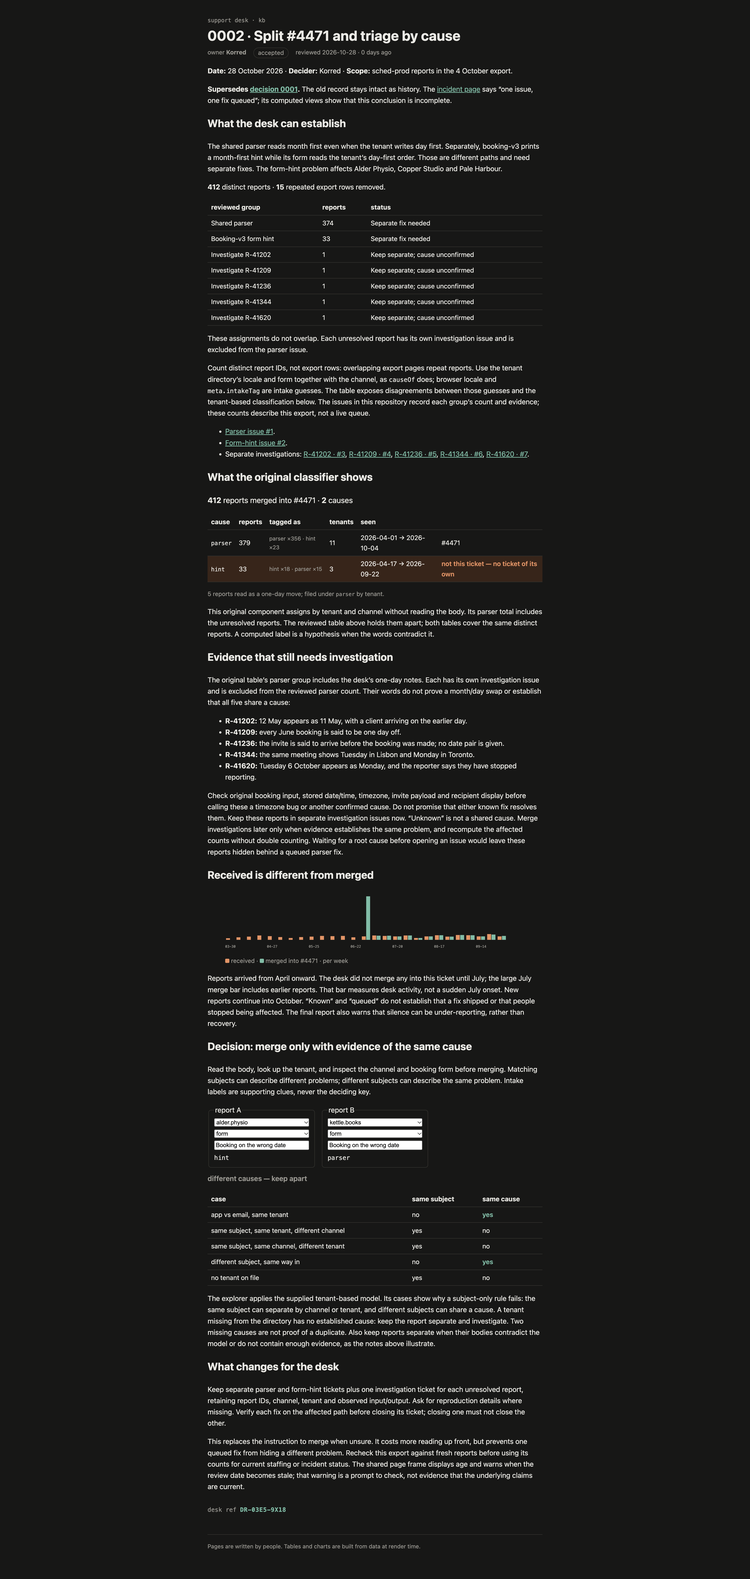
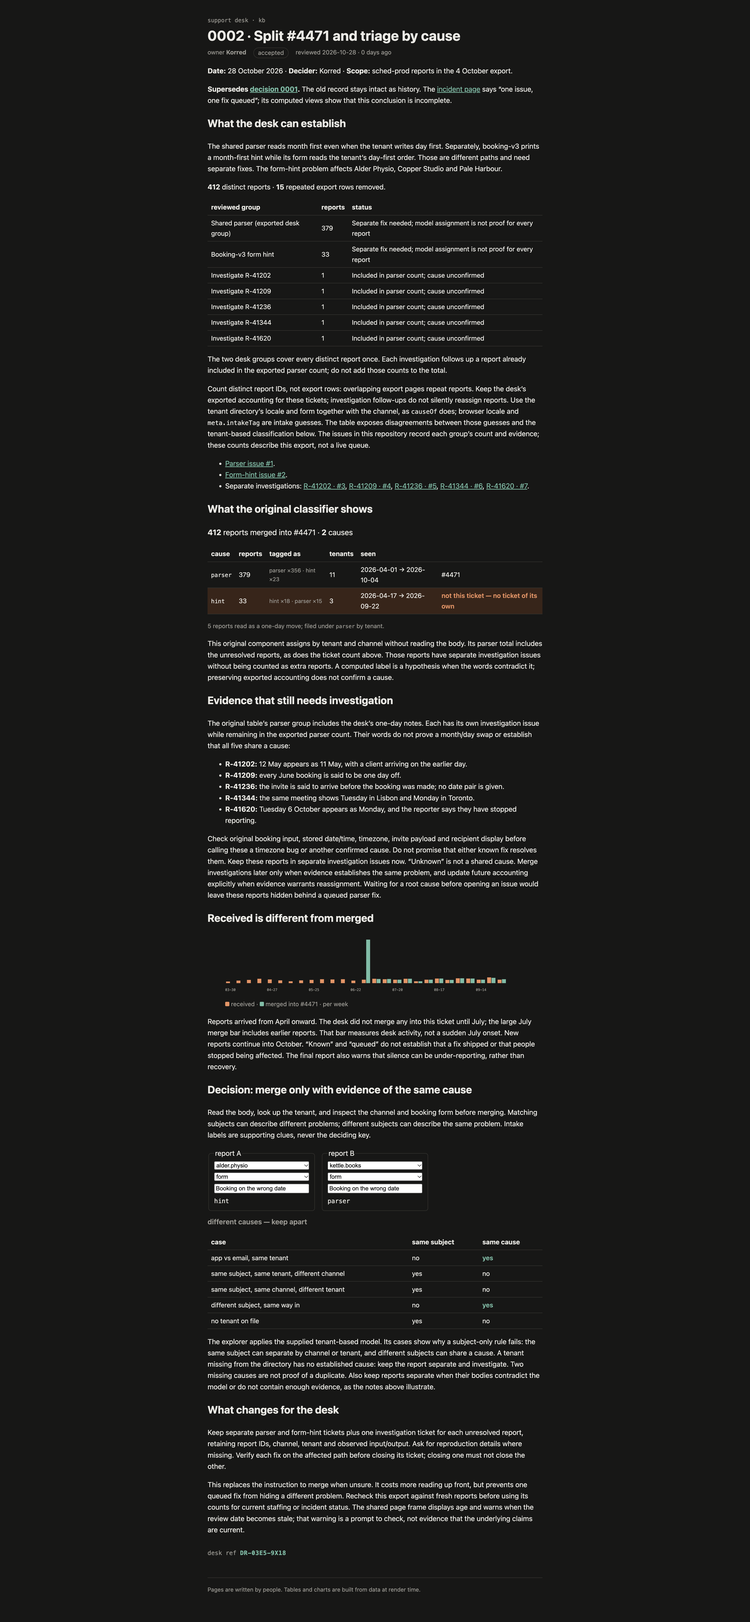
Retain exported desk counts and track investigations as follow-ups

Changed region(s): [[0.2803, 0.0311, 0.7474, 0.9647], [0.6539, 0.7469, 0.6851, 0.778], [0.5605, 0.7469, 0.5917, 0.778]]

diff --git a/S01E03/rendered/0002-triage-by-cause.html b/S01E03/rendered/0002-triage-by-cause.html
@@ -44,7 +44,41 @@ aside.svelte-17bri61 { border-left: 4px solid var(--accent); padding: 0.5rem 1re
 aside.warn.svelte-17bri61 { border-color: var(--warn); background: var(--warn-bg); }
 .svelte-17bri61 { }
 .stale.svelte-tbc1ha { color: var(--warn); font-weight: 600; }
-.svelte-tbc1ha { }</style></head><body><div id="app"><!----><div class="kb svelte-e2jw2j"><header class="svelte-e2jw2j"><a class="crumb svelte-e2jw2j" href="/kb">support desk · kb</a> <h1 class="svelte-e2jw2j">Support knowledge base</h1> <p class="meta svelte-e2jw2j"><span class="svelte-e2jw2j">owner <b class="svelte-e2jw2j">support desk</b></span> <span class="status living svelte-e2jw2j">living</span> <span class="svelte-e2jw2j">reviewed 2026-09-28 · 30 days ago</span></p></header> <!----> <main class="svelte-e2jw2j"><p>What the support desk knows, kept next to the code that knows it. One desk, every product: <code>sched-prod</code> (calendar invites for about 300k people) and the rest. When something breaks, the reports land here first.</p> <p>Start with <a href="/kb/triage/dedupe">triage</a> if you are new on the desk.</p> <h2>Pages</h2> <table class="svelte-tbc1ha"><thead class="svelte-tbc1ha"><tr class="svelte-tbc1ha"><th class="svelte-tbc1ha">page</th><th class="svelte-tbc1ha">owner</th><th class="svelte-tbc1ha">status</th><th class="svelte-tbc1ha">reviewed</th></tr></thead><tbody class="svelte-tbc1ha"><tr class="svelte-tbc1ha"><td class="svelte-tbc1ha"><a class="svelte-tbc1ha" href="/kb/decisions/0001-dedupe-by-subject">0001 · Duplicates share a subject line</a></td><td class="svelte-tbc1ha">rune</td><td class="svelte-tbc1ha">accepted</td><td class="svelte-tbc1ha stale">2024-06-11</td></tr><tr class="svelte-tbc1ha"><td class="svelte-tbc1ha"><a class="svelte-tbc1ha" href="/kb/decisions/0002-triage-by-cause">0002 · Split #4471 and triage by cause</a></td><td class="svelte-tbc1ha">Korred</td><td class="svelte-tbc1ha">accepted</td><td class="svelte-tbc1ha">2026-10-28</td></tr><tr class="svelte-tbc1ha"><td class="svelte-tbc1ha"><a class="svelte-tbc1ha" href="/kb/incidents/4471">#4471 · split date problems and unresolved reports</a></td><td class="svelte-tbc1ha">support desk</td><td class="svelte-tbc1ha">investigating</td><td class="svelte-tbc1ha">2026-10-28</td></tr><tr class="svelte-tbc1ha"><td class="svelte-tbc1ha"><a class="svelte-tbc1ha" href="/kb/triage/dedupe">Triage: duplicate reports</a></td><td class="svelte-tbc1ha">support desk</td><td class="svelte-tbc1ha">accepted</td><td class="svelte-tbc1ha">2026-10-28</td></tr></tbody></table><!----> <h2>Writing a page</h2> <p>Keep the words here and the logic in <code>src/lib</code>. A number that can be computed should be
-computed by a component, not typed into a paragraph.</p><!----></main> <footer class="svelte-e2jw2j">Pages are written by people. Tables and charts are built from data at render time.</footer></div></div>
+.svelte-tbc1ha { }</style></head><body><div id="app"><!----><div class="kb svelte-e2jw2j"><header class="svelte-e2jw2j"><a class="crumb svelte-e2jw2j" href="/kb">support desk · kb</a> <h1 class="svelte-e2jw2j">0002 · Split #4471 and triage by cause</h1> <p class="meta svelte-e2jw2j"><span class="svelte-e2jw2j">owner <b class="svelte-e2jw2j">Korred</b></span> <span class="status accepted svelte-e2jw2j">accepted</span> <span class="svelte-e2jw2j">reviewed 2026-10-28 · 0 days ago</span></p></header> <!----> <main class="svelte-e2jw2j"><p><strong>Date:</strong> 28 October 2026 · <strong>Decider:</strong> Korred · <strong>Scope:</strong> sched-prod reports in the 4 October export.</p> <p><strong>Supersedes <a href="/kb/decisions/0001-dedupe-by-subject">decision 0001</a>.</strong> The old record stays intact as history.
+The <a href="/kb/incidents/4471">incident page</a> says “one issue, one fix queued”; its computed views show that this conclusion is incomplete.</p> <h2>What the desk can establish</h2> <p>The shared parser reads month first even when the tenant writes day first. Separately, booking-v3
+prints a month-first hint while its form reads the tenant’s day-first order. Those are different
+paths and need separate fixes. The form-hint problem affects Alder Physio, Copper Studio and Pale Harbour.</p> <p><strong>412</strong> distinct reports · <strong>15</strong> repeated export rows removed.</p> <table><thead><tr><th>reviewed group</th><th>reports</th><th>status</th></tr></thead><tbody><tr><td>Shared parser (exported desk group)</td><td>379</td><td>Separate fix needed; model assignment is not proof for every report</td></tr><tr><td>Booking-v3 form hint</td><td>33</td><td>Separate fix needed; model assignment is not proof for every report</td></tr><!----><tr><td>Investigate R-41202</td><td>1</td><td>Included in parser count; cause unconfirmed</td></tr><tr><td>Investigate R-41209</td><td>1</td><td>Included in parser count; cause unconfirmed</td></tr><tr><td>Investigate R-41236</td><td>1</td><td>Included in parser count; cause unconfirmed</td></tr><tr><td>Investigate R-41344</td><td>1</td><td>Included in parser count; cause unconfirmed</td></tr><tr><td>Investigate R-41620</td><td>1</td><td>Included in parser count; cause unconfirmed</td></tr><!----></tbody></table> <p>The two desk groups cover every distinct report once. Each investigation follows up a report already included in the exported parser count; do not add those counts to the total.</p><!----> <p>Count distinct report IDs, not export rows: overlapping export pages repeat reports. Keep the
+desk’s exported accounting for these tickets; investigation follow-ups do not silently reassign reports.
+Use the tenant directory’s locale and form together with the channel, as <code>causeOf</code> does;
+browser locale and <code>meta.intakeTag</code> are intake guesses. The table exposes disagreements between
+those guesses and the tenant-based classification below. The issues in this repository record each
+group’s count and evidence; these counts describe this export, not a live queue.</p> <ul><li><a href="https://github.com/Korred/mega-dev-tasks/issues/1" rel="nofollow">Parser issue #1</a>.</li> <li><a href="https://github.com/Korred/mega-dev-tasks/issues/2" rel="nofollow">Form-hint issue #2</a>.</li> <li>Separate investigations: <a href="https://github.com/Korred/mega-dev-tasks/issues/3" rel="nofollow">R-41202 · #3</a>, <a href="https://github.com/Korred/mega-dev-tasks/issues/4" rel="nofollow">R-41209 · #4</a>, <a href="https://github.com/Korred/mega-dev-tasks/issues/5" rel="nofollow">R-41236 · #5</a>, <a href="https://github.com/Korred/mega-dev-tasks/issues/6" rel="nofollow">R-41344 · #6</a>, <a href="https://github.com/Korred/mega-dev-tasks/issues/7" rel="nofollow">R-41620 · #7</a>.</li></ul> <h2>What the original classifier shows</h2> <p class="sum svelte-12oyimm"><strong class="svelte-12oyimm">412</strong> reports merged into #4471 · <strong class="svelte-12oyimm">2</strong> causes</p> <table class="svelte-12oyimm"><thead class="svelte-12oyimm"><tr class="svelte-12oyimm"><th class="svelte-12oyimm">cause</th><th class="svelte-12oyimm">reports</th><th class="svelte-12oyimm">tagged as</th><th class="svelte-12oyimm">tenants</th><th class="svelte-12oyimm">seen</th><th class="svelte-12oyimm"></th></tr></thead><tbody class="svelte-12oyimm"><tr class="svelte-12oyimm"><td class="svelte-12oyimm"><code class="svelte-12oyimm">parser</code></td><td class="svelte-12oyimm">379</td><td class="tags svelte-12oyimm">parser ×356 · hint ×23</td><td class="svelte-12oyimm">11</td><td class="svelte-12oyimm">2026-04-01 → 2026-10-04</td><td class="svelte-12oyimm">#4471</td></tr><tr class="svelte-12oyimm wrong"><td class="svelte-12oyimm"><code class="svelte-12oyimm">hint</code></td><td class="svelte-12oyimm">33</td><td class="tags svelte-12oyimm">hint ×18 · parser ×15</td><td class="svelte-12oyimm">3</td><td class="svelte-12oyimm">2026-04-17 → 2026-09-22</td><td class="svelte-12oyimm">not this ticket — no ticket of its own</td></tr></tbody></table> <!----><p class="note svelte-12oyimm">5 reports read as a one-day move; filed under <code class="svelte-12oyimm">parser</code> by tenant.</p><!----><!----><!----> <p>This original component assigns by tenant and channel without reading the body. Its parser
+total includes the unresolved reports, as does the ticket count above. Those reports have
+separate investigation issues without being counted as extra reports. A computed label is a
+hypothesis when the words contradict it; preserving exported accounting does not confirm a cause.</p> <h2>Evidence that still needs investigation</h2> <p>The original table’s parser group includes the desk’s one-day notes. Each has its own
+investigation issue while remaining in the exported parser count. Their words do not prove
+a month/day swap or establish that all five share a cause:</p> <ul><li><strong>R-41202:</strong> 12 May appears as 11 May, with a client arriving on the earlier day.</li> <li><strong>R-41209:</strong> every June booking is said to be one day off.</li> <li><strong>R-41236:</strong> the invite is said to arrive before the booking was made; no date pair is given.</li> <li><strong>R-41344:</strong> the same meeting shows Tuesday in Lisbon and Monday in Toronto.</li> <li><strong>R-41620:</strong> Tuesday 6 October appears as Monday, and the reporter says they have stopped reporting.</li></ul> <p>Check original booking input, stored date/time, timezone, invite payload and recipient display
+before calling these a timezone bug or another confirmed cause. Do not promise that either known
+fix resolves them. Keep these reports in separate investigation issues now. “Unknown” is not
+a shared cause. Merge investigations later only when evidence establishes the same problem,
+and update future accounting explicitly when evidence warrants reassignment. Waiting for a root cause before
+opening an issue would leave these reports hidden behind a queued parser fix.</p> <h2>Received is different from merged</h2> <figure class="svelte-18a6qal"><svg role="img" class="svelte-18a6qal" viewBox="0 0 648 140" aria-label="reports received and merged into #4471, per week"><rect class="in svelte-18a6qal" width="9" x="2" y="106.29629629629629" height="3.7037037037037033"></rect><rect class="merged svelte-18a6qal" width="9" x="12" y="110" height="0"></rect><text y="128" class="svelte-18a6qal" x="12">03-30</text><!----><rect class="in svelte-18a6qal" width="9" x="26" y="104.17989417989418" height="5.82010582010582"></rect><rect class="merged svelte-18a6qal" width="9" x="36" y="110" height="0"></rect><!----><rect class="in svelte-18a6qal" width="9" x="50" y="102.5925925925926" height="7.4074074074074066"></rect><rect class="merged svelte-18a6qal" width="9" x="60" y="110" height="0"></rect><!----><rect class="in svelte-18a6qal" width="9" x="74" y="99.94708994708995" height="10.052910052910052"></rect><rect class="merged svelte-18a6qal" width="9" x="84" y="110" height="0"></rect><!----><rect class="in svelte-18a6qal" width="9" x="98" y="101.53439153439153" height="8.465608465608465"></rect><rect class="merged svelte-18a6qal" width="9" x="108" y="110" height="0"></rect><text y="128" class="svelte-18a6qal" x="108">04-27</text><!----><rect class="in svelte-18a6qal" width="9" x="122" y="103.65079365079364" height="6.349206349206349"></rect><rect class="merged svelte-18a6qal" width="9" x="132" y="110" height="0"></rect><!----><rect class="in svelte-18a6qal" width="9" x="146" y="105.76719576719577" height="4.232804232804233"></rect><rect class="merged svelte-18a6qal" width="9" x="156" y="110" height="0"></rect><!----><rect class="in svelte-18a6qal" width="9" x="170" y="103.65079365079364" height="6.349206349206349"></rect><rect class="merged svelte-18a6qal" width="9" x="180" y="110" height="0"></rect><!----><rect class="in svelte-18a6qal" width="9" x="194" y="102.5925925925926" height="7.4074074074074066"></rect><rect class="merged svelte-18a6qal" width="9" x="204" y="110" height="0"></rect><text y="128" class="svelte-18a6qal" x="204">05-25</text><!----><rect class="in svelte-18a6qal" width="9" x="218" y="101.00529100529101" height="8.994708994708994"></rect><rect class="merged svelte-18a6qal" width="9" x="228" y="110" height="0"></rect><!----><rect class="in svelte-18a6qal" width="9" x="242" y="101.53439153439153" height="8.465608465608465"></rect><rect class="merged svelte-18a6qal" width="9" x="252" y="110" height="0"></rect><!----><rect class="in svelte-18a6qal" width="9" x="266" y="101.00529100529101" height="8.994708994708994"></rect><rect class="merged svelte-18a6qal" width="9" x="276" y="110" height="0"></rect><!----><rect class="in svelte-18a6qal" width="9" x="290" y="104.17989417989418" height="5.82010582010582"></rect><rect class="merged svelte-18a6qal" width="9" x="300" y="110" height="0"></rect><text y="128" class="svelte-18a6qal" x="300">06-22</text><!----><rect class="in svelte-18a6qal" width="9" x="314" y="102.06349206349206" height="7.936507936507936"></rect><rect class="merged svelte-18a6qal" width="9" x="324" y="10" height="100"></rect><!----><rect class="in svelte-18a6qal" width="9" x="338" y="99.94708994708995" height="10.052910052910052"></rect><rect class="merged svelte-18a6qal" width="9" x="348" y="100.47619047619048" height="9.523809523809524"></rect><!----><rect class="in svelte-18a6qal" width="9" x="362" y="101.00529100529101" height="8.994708994708994"></rect><rect class="merged svelte-18a6qal" width="9" x="372" y="100.47619047619048" height="9.523809523809524"></rect><!----><rect class="in svelte-18a6qal" width="9" x="386" y="102.06349206349206" height="7.936507936507936"></rect><rect class="merged svelte-18a6qal" width="9" x="396" y="102.06349206349206" height="7.936507936507936"></rect><text y="128" class="svelte-18a6qal" x="396">07-20</text><!----><rect class="in svelte-18a6qal" width="9" x="410" y="99.94708994708995" height="10.052910052910052"></rect><rect class="merged svelte-18a6qal" width="9" x="420" y="99.94708994708995" height="10.052910052910052"></rect><!----><rect class="in svelte-18a6qal" width="9" x="434" y="105.76719576719577" height="4.232804232804233"></rect><rect class="merged svelte-18a6qal" width="9" x="444" y="105.76719576719577" height="4.232804232804233"></rect><!----><rect class="in svelte-18a6qal" width="9" x="458" y="102.06349206349206" height="7.936507936507936"></rect><rect class="merged svelte-18a6qal" width="9" x="468" y="102.06349206349206" height="7.936507936507936"></rect><!----><rect class="in svelte-18a6qal" width="9" x="482" y="99.41798941798942" height="10.582010582010582"></rect><rect class="merged svelte-18a6qal" width="9" x="492" y="99.41798941798942" height="10.582010582010582"></rect><text y="128" class="svelte-18a6qal" x="492">08-17</text><!----><rect class="in svelte-18a6qal" width="9" x="506" y="102.5925925925926" height="7.4074074074074066"></rect><rect class="merged svelte-18a6qal" width="9" x="516" y="102.5925925925926" height="7.4074074074074066"></rect><!----><rect class="in svelte-18a6qal" width="9" x="530" y="98.88888888888889" height="11.11111111111111"></rect><rect class="merged svelte-18a6qal" width="9" x="540" y="98.88888888888889" height="11.11111111111111"></rect><!----><rect class="in svelte-18a6qal" width="9" x="554" y="99.41798941798942" height="10.582010582010582"></rect><rect class="merged svelte-18a6qal" width="9" x="564" y="99.41798941798942" height="10.582010582010582"></rect><!----><rect class="in svelte-18a6qal" width="9" x="578" y="102.06349206349206" height="7.936507936507936"></rect><rect class="merged svelte-18a6qal" width="9" x="588" y="102.06349206349206" height="7.936507936507936"></rect><text y="128" class="svelte-18a6qal" x="588">09-14</text><!----><rect class="in svelte-18a6qal" width="9" x="602" y="96.77248677248677" height="13.227513227513226"></rect><rect class="merged svelte-18a6qal" width="9" x="612" y="97.83068783068784" height="12.16931216931217"></rect><!----><rect class="in svelte-18a6qal" width="9" x="626" y="102.06349206349206" height="7.936507936507936"></rect><rect class="merged svelte-18a6qal" width="9" x="636" y="101.00529100529101" height="8.994708994708994"></rect><!----></svg> <figcaption class="svelte-18a6qal"><span class="key in svelte-18a6qal"></span> received · <span class="key merged svelte-18a6qal"></span> merged into #4471 · per week</figcaption></figure><!----> <p>Reports arrived from April onward. The desk did not merge any into this ticket until July;
+the large July merge bar includes earlier reports. That bar measures desk activity, not a sudden
+July onset. New reports continue into October. “Known” and “queued” do not establish that a fix
+shipped or that people stopped being affected. The final report also warns that silence can be
+under-reporting, rather than recovery.</p> <h2>Decision: merge only with evidence of the same cause</h2> <p>Read the body, look up the tenant, and inspect the channel and booking form before merging.
+Matching subjects can describe different problems; different subjects can describe the same
+problem. Intake labels are supporting clues, never the deciding key.</p> <div class="try svelte-gq0h2h"><fieldset class="svelte-gq0h2h"><legend class="svelte-gq0h2h">report A</legend> <select aria-label="tenant" class="svelte-gq0h2h" disabled="" title="Frozen render; use the built app for the interactive explorer"><option class="svelte-gq0h2h" selected="">alder.physio</option><option class="svelte-gq0h2h">copper.studio</option><option class="svelte-gq0h2h">harbour.dental</option><option class="svelte-gq0h2h">kettle.books</option><option class="svelte-gq0h2h">lantern.row</option><option class="svelte-gq0h2h">long.table</option><option class="svelte-gq0h2h">morrow.tax</option><option class="svelte-gq0h2h">nine.lanterns</option><option class="svelte-gq0h2h">pale.harbour</option><option class="svelte-gq0h2h">ridge.clinic</option><option class="svelte-gq0h2h">stone.and.sons</option></select> <select aria-label="channel" class="svelte-gq0h2h" disabled="" title="Frozen render; use the built app for the interactive explorer"><option class="svelte-gq0h2h">app</option><option class="svelte-gq0h2h">email</option><option class="svelte-gq0h2h" selected="">form</option></select> <input aria-label="subject" class="svelte-gq0h2h" value="Booking on the wrong date" disabled="" title="Frozen render; use the built app for the interactive explorer"> <code class="svelte-gq0h2h">hint</code></fieldset><fieldset class="svelte-gq0h2h"><legend class="svelte-gq0h2h">report B</legend> <select aria-label="tenant" class="svelte-gq0h2h" disabled="" title="Frozen render; use the built app for the interactive explorer"><option class="svelte-gq0h2h">alder.physio</option><option class="svelte-gq0h2h">copper.studio</option><option class="svelte-gq0h2h">harbour.dental</option><option class="svelte-gq0h2h" selected="">kettle.books</option><option class="svelte-gq0h2h">lantern.row</option><option class="svelte-gq0h2h">long.table</option><option class="svelte-gq0h2h">morrow.tax</option><option class="svelte-gq0h2h">nine.lanterns</option><option class="svelte-gq0h2h">pale.harbour</option><option class="svelte-gq0h2h">ridge.clinic</option><option class="svelte-gq0h2h">stone.and.sons</option></select> <select aria-label="channel" class="svelte-gq0h2h" disabled="" title="Frozen render; use the built app for the interactive explorer"><option class="svelte-gq0h2h">app</option><option class="svelte-gq0h2h">email</option><option class="svelte-gq0h2h" selected="">form</option></select> <input aria-label="subject" class="svelte-gq0h2h" value="Booking on the wrong date" disabled="" title="Frozen render; use the built app for the interactive explorer"> <code class="svelte-gq0h2h">parser</code></fieldset><!----> <p class="verdict svelte-gq0h2h">different causes — keep apart</p></div> <table class="svelte-gq0h2h"><thead class="svelte-gq0h2h"><tr class="svelte-gq0h2h"><th class="svelte-gq0h2h">case</th><th class="svelte-gq0h2h">same subject</th><th class="svelte-gq0h2h">same cause</th></tr></thead><tbody class="svelte-gq0h2h"><tr class="svelte-gq0h2h"><td class="svelte-gq0h2h">app vs email, same tenant</td><td class="svelte-gq0h2h">no</td><td class="svelte-gq0h2h dup">yes</td></tr><tr class="svelte-gq0h2h"><td class="svelte-gq0h2h">same subject, same tenant, different channel</td><td class="svelte-gq0h2h">yes</td><td class="svelte-gq0h2h">no</td></tr><tr class="svelte-gq0h2h"><td class="svelte-gq0h2h">same subject, same channel, different tenant</td><td class="svelte-gq0h2h">yes</td><td class="svelte-gq0h2h">no</td></tr><tr class="svelte-gq0h2h"><td class="svelte-gq0h2h">different subject, same way in</td><td class="svelte-gq0h2h">no</td><td class="svelte-gq0h2h dup">yes</td></tr><tr class="svelte-gq0h2h"><td class="svelte-gq0h2h">no tenant on file</td><td class="svelte-gq0h2h">yes</td><td class="svelte-gq0h2h">no</td></tr></tbody></table><!----> <p>The explorer applies the supplied tenant-based model. Its cases show why a subject-only rule
+fails: the same subject can separate by channel or tenant, and different subjects can share a cause.
+A tenant missing from the directory has no established cause: keep the report separate and
+investigate. Two missing causes are not proof of a duplicate. Also keep reports separate when
+their bodies contradict the model or do not contain enough evidence, as the notes above illustrate.</p> <h2>What changes for the desk</h2> <p>Keep separate parser and form-hint tickets plus one investigation ticket for each unresolved
+report, retaining report IDs, channel, tenant and
+observed input/output. Ask for reproduction details where missing. Verify each fix on the affected
+path before closing its ticket; closing one must not close the other.</p> <p>This replaces the instruction to merge when unsure. It costs more reading up front, but prevents
+one queued fix from hiding a different problem. Recheck this export against fresh reports before
+using its counts for current staffing or incident status. The shared page frame displays age and
+warns when the review date becomes stale; that warning is a prompt to check, not evidence that
+the underlying claims are current.</p> <!----><p class="stamp svelte-1280m42">desk ref <b class="svelte-1280m42">DR-03E5-9X18</b></p><!----><!----></main> <footer class="svelte-e2jw2j">Pages are written by people. Tables and charts are built from data at render time.</footer></div></div>
 
 </body></html>

diff --git a/S01E03/support-kb/src/lib/kb/ReviewedReports.svelte b/S01E03/support-kb/src/lib/kb/ReviewedReports.svelte
@@ -13,12 +13,12 @@
   <thead><tr><th>reviewed group</th><th>reports</th><th>status</th></tr></thead>
   <tbody>
     {#each reviewed.groups as group (group.cause)}
-      <tr><td>{group.cause === 'parser' ? 'Shared parser' : 'Booking-v3 form hint'}</td><td>{group.reports.length}</td><td>Separate fix needed</td></tr>
+      <tr><td>{group.cause === 'parser' ? 'Shared parser (exported desk group)' : 'Booking-v3 form hint'}</td><td>{group.reports.length}</td><td>Separate fix needed; model assignment is not proof for every report</td></tr>
     {/each}
     {#each reviewed.unresolved as report (report.id)}
-      <tr><td>Investigate {report.id}</td><td>1</td><td>Keep separate; cause unconfirmed</td></tr>
+      <tr><td>Investigate {report.id}</td><td>1</td><td>Included in parser count; cause unconfirmed</td></tr>
     {/each}
   </tbody>
 </table>
 
-<p>These assignments do not overlap. Each unresolved report has its own investigation issue and is excluded from the parser issue.</p>
+<p>The two desk groups cover every distinct report once. Each investigation follows up a report already included in the exported parser count; do not add those counts to the total.</p>

diff --git a/S01E03/support-kb/src/lib/kb/review.ts b/S01E03/support-kb/src/lib/kb/review.ts
@@ -1,13 +1,13 @@
 import { groupByCause, uniqueById, type Report, type Tenant } from './causes.ts';
 
-// Desk review can withhold a model assignment when the report's wording contradicts it.
-// These IDs identify evidence to investigate; they do not establish a shared third cause.
+// Keep the exported desk accounting; flag contradictory evidence without silently reassigning it.
+// Investigation IDs identify follow-ups inside that accounting, not additional reports.
 export function reviewReports(rows: Report[], tenantOf: (r: Report) => Tenant | undefined, unresolvedIds: readonly string[]) {
   const reports = uniqueById(rows).filter(r => r.mergedInto === 4471);
   const held = new Set(unresolvedIds);
   return {
     reports,
-    groups: groupByCause(reports.filter(r => !held.has(r.id)), tenantOf),
+    groups: groupByCause(reports, tenantOf),
     unresolved: reports.filter(r => held.has(r.id)),
   };
 }

diff --git a/S01E03/README.md b/S01E03/README.md
@@ -4,18 +4,24 @@ Split the support desk's #4471 by evidence, including separate investigations wh
 
 | Issue | Assignment | Distinct reports |
 | --- | --- | ---: |
-| [#1](https://github.com/Korred/mega-dev-tasks/issues/1) | Shared month-first parser | 374 |
+| [#1](https://github.com/Korred/mega-dev-tasks/issues/1) | Shared month-first parser, exported desk count | 379 |
 | [#2](https://github.com/Korred/mega-dev-tasks/issues/2) | Booking-v3 form hint | 33 |
+| Total | Exported primary groups | 412 |
+
+Separate investigations below follow up reports **already included in the parser count**. Do not
+add their counts to the primary total; their cause remains unconfirmed.
+
+| Issue | Follow-up | Distinct reports investigated |
+| --- | --- | ---: |
 | [#3](https://github.com/Korred/mega-dev-tasks/issues/3) | R-41202: invite/calendar one-day disagreement | 1 |
 | [#4](https://github.com/Korred/mega-dev-tasks/issues/4) | R-41209: June-only one-day shifts | 1 |
 | [#5](https://github.com/Korred/mega-dev-tasks/issues/5) | R-41236: invite reportedly arrives before booking | 1 |
 | [#6](https://github.com/Korred/mega-dev-tasks/issues/6) | R-41344: recipients in different cities see different days | 1 |
 | [#7](https://github.com/Korred/mega-dev-tasks/issues/7) | R-41620: Tuesday shows as Monday | 1 |
-| Total | Every distinct report assigned once | 412 |
 
 The export contains 427 rows; 15 repeat report IDs. The original classifier returns 379 parser
-and 33 hint reports. Five bodies do not establish the classifier's parser assignment. They are
-held apart for investigation, leaving 374 in the parser issue. These investigations are separate
+and 33 hint reports. Five bodies do not establish the classifier's parser assignment. They have
+separate investigations while remaining included in the exported parser count. These investigations are separate
 because uncertainty alone does not establish a common problem. They can be merged if later
 evidence supports a shared cause. Counts describe the 4 October export, not a live support queue.
 
@@ -25,7 +31,7 @@ evidence supports a shared cause. Counts describe the 4 October export, not a li
 - [Rendered page screenshot](rendered/0002-triage-by-cause.png): the complete page, captured in Edge.
 - [Standalone rendered HTML](rendered/0002-triage-by-cause.html): download and open in a browser. This is a frozen snapshot with inline styles; explorer controls are disabled. Use the app below for interaction.
 - [Rendered text](rendered/0002-triage-by-cause.txt): accessible, searchable text extracted from that browser render.
-- [Complete report assignments](report-assignments.json): report IDs and count for every issue.
+- [Complete report assignments](report-assignments.json): primary groups plus overlapping investigation follow-ups, with report IDs and count for every issue.
 - [Issue body copies](issues/).
 - [Interactive kb source](support-kb/): run the app below to use its explorer and navigate the kb.
 
@@ -52,7 +58,7 @@ npm run dev
 Open the local URL printed by Vite. The default page is the new decision; `/kb` opens the index.
 To view the production build after `npm run build`, run `npm exec vite preview -- --host 127.0.0.1` in the same directory.
 
-The runnable check verifies unique IDs, the original classification, the reviewed partition,
+The runnable check verifies unique IDs, the exported classification, the primary partition and investigation overlap,
 the complete assignment manifest, intake-tag disagreements, missing-tenant handling, dedupe
 examples, the receipt/merge timeline distinction and the page's signature-derived reference.
 The browser check also verified that changing a tenant changes the explorer verdict, while

diff --git a/S01E03/issues/01-parser.md b/S01E03/issues/01-parser.md
@@ -1,4 +1,4 @@
-**Reports covered: 374 distinct reports** from #4471 in the 4 October 2026 export.
+**Reports covered: 379 distinct reports**, as counted by the desk's exported view of #4471 on 4 October 2026.
 
 The shared parser reads month first for tenants whose locale uses day-first dates. This differs from the booking-v3 hint problem: the parser interprets input in the wrong order, whereas the hint prompts people to type an order the form does not expect.
 
@@ -6,7 +6,9 @@ Evidence: R-41200 (Harbour Dental, app) says a 7 April reminder went out on 4 Ju
 
 Reproduction to verify against the product: for a day-first tenant, submit `07/04/2026` through the shared-parser path and compare stored booking, invite and displayed date. Expected: 7 April. Reported failure: 4 July. The product itself is not included in this export, so this is a reproduction request, not a claim that a live test was run.
 
-The count deduplicates overlapping export rows by report ID, selects reports merged into #4471, and applies the tenant-based classifier. It excludes five reports whose wording does not establish this cause; each has its own investigation issue. The remaining parser group has 351 intake tags of `parser` and 23 of `hint`; intake tags do not decide the assignment.
+The count deduplicates overlapping export rows by report ID, selects reports merged into #4471, and applies the desk's exported tenant-based classifier. This group has 356 intake tags of `parser` and 23 of `hint`; intake tags do not decide the assignment.
+
+Five reports remain included in this exported count even though their wording does not establish this cause: R-41202, R-41209, R-41236, R-41344 and R-41620. Each has its own investigation issue (#3–#7). Those are follow-ups within the 379, not five extra reports or confirmed parser failures. Keep the exported accounting explicit rather than silently changing its group count; amend future assignments if evidence establishes another cause.
 
 Seen 1 April–4 October 2026 across 11 tenants. Verify the shared parser uses the tenant's intended date order, with regression checks on app/email and booking-v2 paths and confirmation that the booking-v3 form-hint fix remains separate. Do not close the unresolved investigations merely because this fix ships.
 

diff --git a/S01E03/issues/05-R-41236.md b/S01E03/issues/05-R-41236.md
@@ -4,7 +4,7 @@ Nine Lanterns, app, received 20 April 2026. The report says: “The invite arriv
 
 Expected: the invite corresponds to the booking that generated it and its event history is explainable. Observed: the reporter says delivery preceded booking creation. No actual timestamps or date pair are supplied. This does not establish even a one-day shift, much less a month/day reversal.
 
-The supplied classifier assigns `parser` from tenant locale (`pl-PL`) and channel, while the desk puts this ID in its one-day notes. Those labels do not establish what happened. Hold this report apart from both known fixes and the other unresolved investigations.
+The supplied classifier assigns `parser` from tenant locale (`pl-PL`) and channel, while the desk puts this ID in its one-day notes. Those labels do not establish what happened. Keep this investigation apart from both known fixes and the other unresolved investigations, while retaining its report in the desk's exported parser count. It is a follow-up to a report already counted, not an extra report.
 
 Request booking/event IDs, booking creation and update audit records, send/enqueue/delivery times, raw email headers, timezone/clock settings, and whether the invite belonged to an earlier booking or resend. Correlate the event history before naming a cause. A clock discrepancy, earlier booking or scheduling fault is a hypothesis, not a confirmed result.
 

diff --git a/S01E03/issues/06-R-41344.md b/S01E03/issues/06-R-41344.md
@@ -4,7 +4,7 @@ Pale Harbour, email, received 12 June 2026. The report says: “Client in Lisbon
 
 Observed: recipients in two cities saw different calendar days and the meeting was held twice. Expected: the same event represents the intended instant or agreed date consistently, with clear timezone information. Different local dates can be valid for an event crossing midnight, so the report alone does not prove a timezone defect.
 
-The supplied classifier assigns `parser` from tenant locale (`pt-PT`) and email channel. It does not inspect the actual event instant or recipient displays. Hold this report apart from the parser and form-hint counts until verified.
+The supplied classifier assigns `parser` from tenant locale (`pt-PT`) and email channel. It does not inspect the actual event instant or recipient displays. Keep this investigation separate while retaining the report in the desk's exported parser count. It is a follow-up to a report already counted, not an extra report.
 
 Request the intended meeting time, event ID, both raw invites, DTSTART/DTEND and TZID or equivalent fields, recipient timezones, and displayed times as well as dates. Establish whether recipients received different event data or valid timezone conversions that were communicated poorly. Reproduce the discrepancy before assigning a technical cause or merging investigations.
 

diff --git a/S01E03/issues/07-R-41620.md b/S01E03/issues/07-R-41620.md
@@ -4,7 +4,7 @@ Lantern Row, email, received 4 October 2026. The report says: “Tuesday 6 Octob
 
 Expected: a booking intended for Tuesday 6 October retains the correct date. Observed: a Monday display and a manual correction. The wording describes a one-day difference, not a demonstrated month/day reversal. The reporter's statement that they stopped reporting also means a quiet queue cannot establish recovery.
 
-The supplied classifier assigns `parser` from tenant locale (`cs-CZ`) and channel. Hold this report apart from the parser and form-hint counts, and retain it separately from earlier one-day investigations until evidence supports a shared cause.
+The supplied classifier assigns `parser` from tenant locale (`cs-CZ`) and channel. Retain it in the desk's exported parser count, while keeping this investigation separate from earlier one-day investigations until evidence supports a shared cause. It is a follow-up to a report already counted, not an extra report.
 
 Request original input, booking/event ID, pre-correction stored values, edit history, invite payload, intended timezone and recipient display. Verify whether the one-day change occurred in storage, serialization or display. Preserve the original evidence before manual edits hide it. Confirm the observed behavior and a fix before closure; a queued parser fix is not sufficient proof.
 

diff --git a/S01E03/issues/04-R-41209.md b/S01E03/issues/04-R-41209.md
@@ -4,7 +4,7 @@ Alder Physio, app, received 6 April 2026. The report says: “Every booking in J
 
 Expected: June bookings retain their intended dates. Observed: the reporter describes a June-only one-day shift. They do not provide an input/output pair or establish whether the shift is earlier or later.
 
-The report's subject asks about swapped month/day, and the supplied classifier assigns `parser` from tenant locale (`de-DE`) and channel. Neither proves that explanation for this body. Hold this report apart from the parser and form-hint counts.
+The report's subject asks about swapped month/day, and the supplied classifier assigns `parser` from tenant locale (`de-DE`) and channel. Neither proves that explanation for this body. Keep this investigation separate while retaining the report in the desk's exported parser count. It is a follow-up to a report already counted, not an extra report.
 
 Request concrete affected and unaffected bookings, intended and observed dates, year, timestamps, stored timezone, raw invite and recipient display. Compare June with adjacent months and check boundaries only after obtaining examples. Confirm both the one-day behavior and its claimed June-only scope. Do not label it a confirmed timezone or parser defect, or merge it with another one-day report, without evidence.
 

diff --git a/S01E03/issues/03-R-41202.md b/S01E03/issues/03-R-41202.md
@@ -4,7 +4,7 @@ Kettle Books, email, received 2 April 2026. The report says: “Invite says Tues
 
 Expected: invite and calendar agree on the intended booking date. Observed: a one-day disagreement and an attendee arriving on the earlier day. The wording does not establish a month/day reversal.
 
-The supplied classifier puts this report in `parser` based on tenant locale (`nl-NL`) and channel. Desk notes also flag it. That classification does not explain the reported dates. Hold it apart from the parser and form-hint counts.
+The supplied classifier puts this report in `parser` based on tenant locale (`nl-NL`) and channel. Desk notes also flag it. That classification does not explain the reported dates. Keep this investigation separate while retaining the report in the desk's exported parser count. It is a follow-up to a report already counted, not an extra report.
 
 Request original booking input and intended date, event ID, stored date/time and timezone, raw invite payload, recipient timezone and calendar rendering. Check date-only conversion and timezone handling as hypotheses, not established causes. Reproduce the disagreement before choosing a fix. Do not merge with another one-day report without evidence of the same problem.
 
